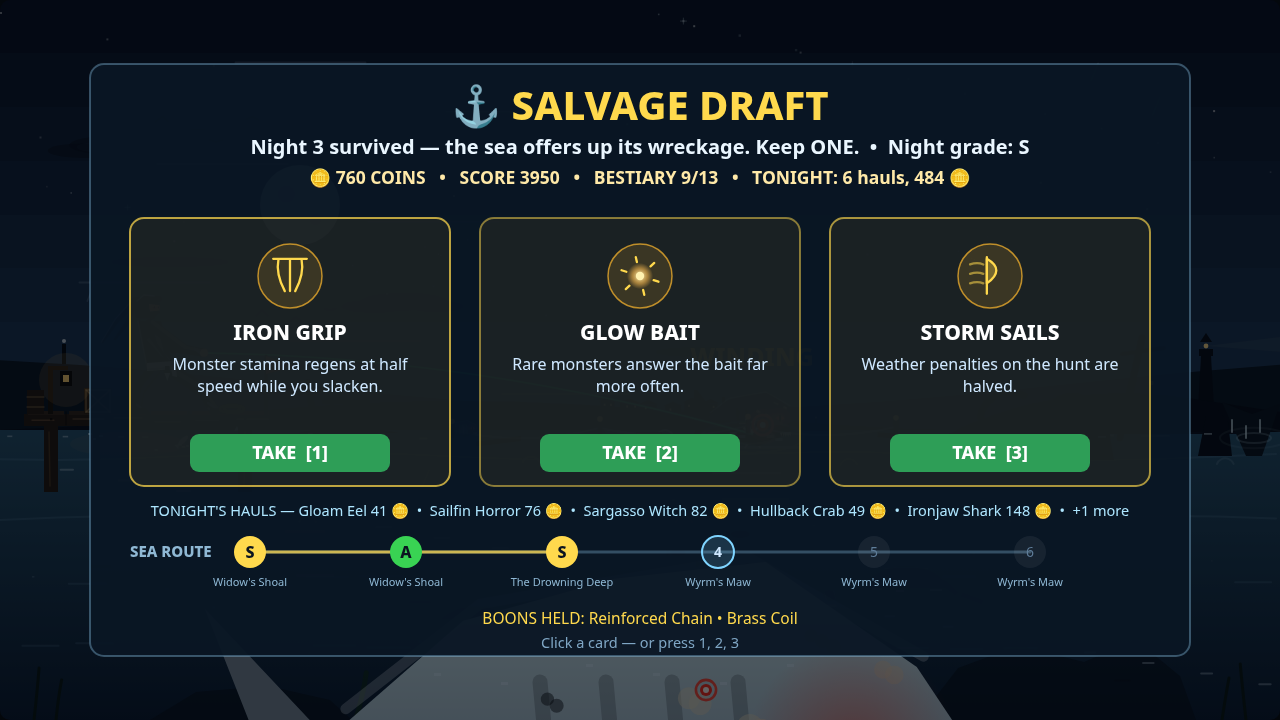
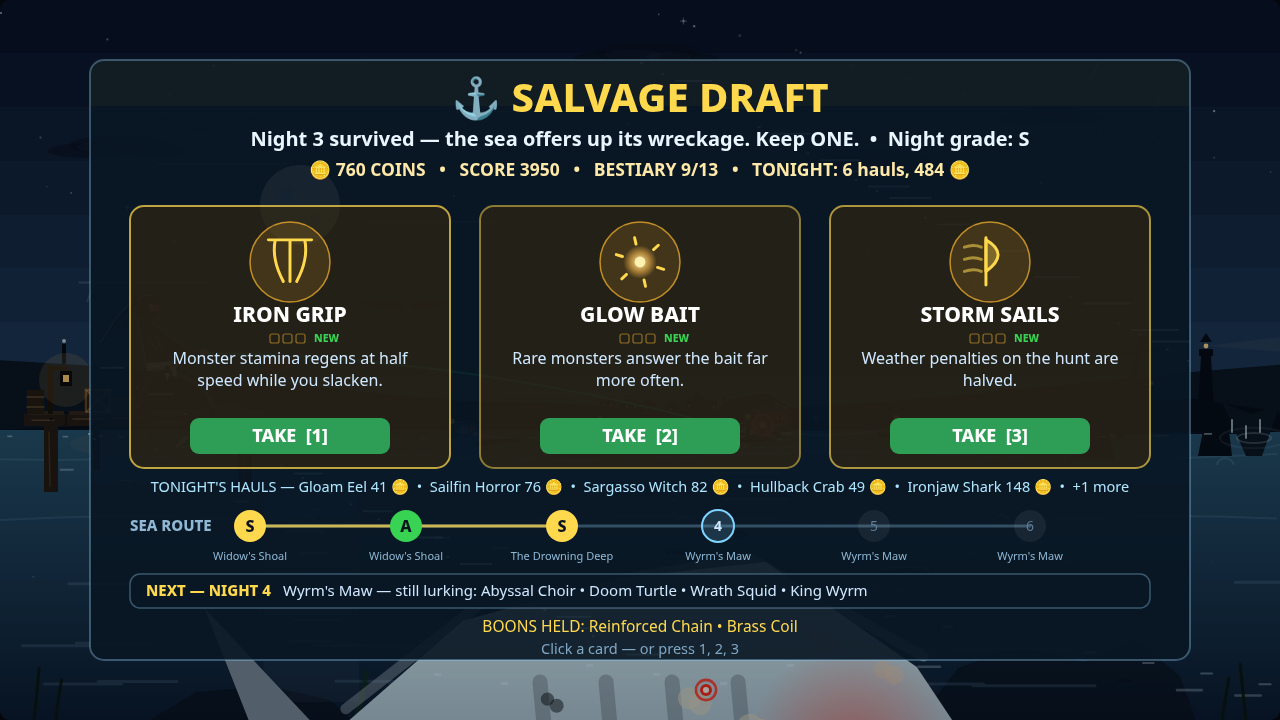
WYRMWAKE: full-sheet richness — draft, victory, briefing, cover

diff --git a/game/src/draft.js b/game/src/draft.js
@@ -6,16 +6,17 @@ import { journalCount } from './state.js';
 import { boonsLabel } from './salvage.js';
 import { text, panel, rr, GRADE_COLORS } from './ui.js';
 import { drawBoonGlyph } from './glyphs.js';
+import { panelTexture, pipRow, nextNightText } from './vendor/screens.js';
 
 export function draftLayout() {
-  const cards = [0, 1, 2].map((i) => ({ idx: i, x: 130 + i * 350, y: 218, w: 320, h: 268 }));
+  const cards = [0, 1, 2].map((i) => ({ idx: i, x: 130 + i * 350, y: 206, w: 320, h: 262 }));
   return { cards };
 }
 
 // The route as a sailed path: a line through six night nodes, grades
 // lettered in, the sea each night was hunted in named underneath.
 function drawDraftRoute(ctx, run) {
-  const y = 552;
+  const y = 526;
   const x0 = 250;
   const stepX = 156;
   ctx.strokeStyle = 'rgba(150,210,245,0.3)';
@@ -59,21 +60,27 @@ function drawDraftRoute(ctx, run) {
 }
 
 export function drawDraft(ctx, run, view) {
-  ctx.fillStyle = 'rgba(2,5,10,0.62)';
+  // a light scrim only: the night sea stays alive behind the panel —
+  // dock, moon and the whale's flank read dimly at its edges
+  ctx.fillStyle = 'rgba(2,5,10,0.34)';
   ctx.fillRect(0, 0, 1280, 720);
-  panel(ctx, 90, 64, 1100, 592, 0.95);
+  panel(ctx, 90, 60, 1100, 600, 0.9);
+  panelTexture(ctx, 90, 60, 1100, 600);
   const recap = run.lastNightHauls || run.tonightHauls || [];
   const recapCoins = recap.reduce((s, hh) => s + hh.coins, 0);
   const grade = run.nightGrades[run.nightGrades.length - 1] || '—';
-  text(ctx, '⚓ SALVAGE DRAFT', 640, 120, 40, '#ffd94d', 'center', 800);
-  text(ctx, `Night ${run.draft.afterNight} survived — the sea offers up its wreckage. Keep ONE.  •  Night grade: ${grade}`, 640, 154, 20, '#eaf6ff', 'center');
-  text(ctx, `🪙 ${run.coins} COINS   •   SCORE ${run.score}   •   BESTIARY ${journalCount(run)}/13   •   TONIGHT: ${recap.length} hauls, ${recapCoins} 🪙`, 640, 184, 17.5, '#ffe9a8', 'center', 700);
+  text(ctx, '⚓ SALVAGE DRAFT', 640, 112, 40, '#ffd94d', 'center', 800);
+  text(ctx, `Night ${run.draft.afterNight} survived — the sea offers up its wreckage. Keep ONE.  •  Night grade: ${grade}`, 640, 146, 20, '#eaf6ff', 'center');
+  text(ctx, `🪙 ${run.coins} COINS   •   SCORE ${run.score}   •   BESTIARY ${journalCount(run)}/13   •   TONIGHT: ${recap.length} hauls, ${recapCoins} 🪙`, 640, 176, 17.5, '#ffe9a8', 'center', 700);
 
   const { cards } = draftLayout();
   run.draft.choices.forEach((id, i) => {
     const c = cards[i];
     const b = boonById(id);
     const pulse = 0.75 + 0.25 * Math.sin(view.t * 2.4 + i * 1.3);
+    ctx.fillStyle = 'rgba(30,20,10,0.5)';
+    rr(ctx, c.x, c.y, c.w, c.h, 14);
+    ctx.fill();
     ctx.fillStyle = 'rgba(255,185,46,0.07)';
     rr(ctx, c.x, c.y, c.w, c.h, 14);
     ctx.fill();
@@ -83,12 +90,12 @@ export function drawDraft(ctx, run, view) {
     // the boon's own little scene, drawn inside the brass seal
     ctx.fillStyle = 'rgba(255,185,46,0.14)';
     ctx.beginPath();
-    ctx.arc(c.x + c.w / 2, c.y + 58, 32, 0, 6.29);
+    ctx.arc(c.x + c.w / 2, c.y + 56, 40, 0, 6.29);
     ctx.fill();
     ctx.strokeStyle = 'rgba(255,185,46,0.7)';
     ctx.lineWidth = 1.5;
     ctx.stroke();
-    drawBoonGlyph(ctx, id, c.x + c.w / 2, c.y + 58, 21);
+    drawBoonGlyph(ctx, id, c.x + c.w / 2, c.y + 56, 27);
     const owned = run.boons.filter((bb) => bb === id).length;
     if (owned > 0) {
       ctx.fillStyle = 'rgba(255,185,46,0.85)';
@@ -96,7 +103,8 @@ export function drawDraft(ctx, run, view) {
       ctx.fill();
       text(ctx, `OWNED ×${owned}`, c.x + c.w - 52, c.y + 27, 11, '#0b1420', 'center', 800);
     }
-    text(ctx, b.name.toUpperCase(), c.x + c.w / 2, c.y + 122, 21, '#ffffff', 'center', 800);
+    text(ctx, b.name.toUpperCase(), c.x + c.w / 2, c.y + 116, 21, '#ffffff', 'center', 800);
+    pipRow(ctx, c.x + c.w / 2, c.y + 128, owned);
     // description, wrapped by hand into centred lines
     const words = b.desc.split(' ');
     const lines = [''];
@@ -104,20 +112,31 @@ export function drawDraft(ctx, run, view) {
       if ((lines[lines.length - 1] + ' ' + w).trim().length > 34) lines.push(w);
       else lines[lines.length - 1] = (lines[lines.length - 1] + ' ' + w).trim();
     }
-    lines.slice(0, 3).forEach((ln, li) => text(ctx, ln, c.x + c.w / 2, c.y + 152 + li * 22, 16, '#cfe8ff', 'center', 400));
+    lines.slice(0, 3).forEach((ln, li) => text(ctx, ln, c.x + c.w / 2, c.y + 158 + li * 22, 16, '#cfe8ff', 'center', 400));
     ctx.fillStyle = '#2e9e57';
-    rr(ctx, c.x + 60, c.y + c.h - 52, c.w - 120, 38, 9);
+    rr(ctx, c.x + 60, c.y + c.h - 50, c.w - 120, 36, 9);
     ctx.fill();
-    text(ctx, `TAKE  [${i + 1}]`, c.x + c.w / 2, c.y + c.h - 27, 18, '#ffffff', 'center', 800);
+    text(ctx, `TAKE  [${i + 1}]`, c.x + c.w / 2, c.y + c.h - 26, 18, '#ffffff', 'center', 800);
   });
 
   // tonight's recap: everything the ended night paid out, by name and price
   const shown = recap.slice(0, 5).map((hh) => `${MONSTERS[hh.mi].name} ${hh.coins} 🪙`).join('  •  ');
   const extra = recap.length > 5 ? `  •  +${recap.length - 5} more` : '';
-  text(ctx, recap.length ? `TONIGHT'S HAULS — ${shown}${extra}` : "TONIGHT'S HAULS — none; the sea kept its secrets", 640, 516, 14.5, '#aee6ff', 'center', 400);
+  text(ctx, recap.length ? `TONIGHT'S HAULS — ${shown}${extra}` : "TONIGHT'S HAULS — none; the sea kept its secrets", 640, 492, 14.5, '#aee6ff', 'center', 400);
 
   drawDraftRoute(ctx, run);
+  // the night to come: its sea, and what still lurks in it
+  const nn = nextNightText(run);
+  ctx.fillStyle = 'rgba(9,22,36,0.85)';
+  rr(ctx, 130, 574, 1020, 34, 10);
+  ctx.fill();
+  ctx.strokeStyle = 'rgba(150,210,245,0.35)';
+  ctx.lineWidth = 1.5;
+  ctx.stroke();
+  text(ctx, nn.label, 146, 596, 15, '#ffd94d', 'left', 800);
+  const lw = ctx.measureText(nn.label).width;
+  text(ctx, nn.line, 158 + lw, 596, 15, '#cfe8ff', 'left', 400);
   const held = run.boons.length ? boonsLabel(run) : 'nothing yet';
-  text(ctx, `BOONS HELD: ${held}`, 640, 624, 15.5, '#ffd94d', 'center', 400);
-  text(ctx, 'Click a card — or press 1, 2, 3', 640, 648, 14.5, '#7fa6c4', 'center', 400);
+  text(ctx, `BOONS HELD: ${held}`, 640, 632, 15.5, '#ffd94d', 'center', 400);
+  text(ctx, 'Click a card — or press 1, 2, 3', 640, 654, 14.5, '#7fa6c4', 'center', 400);
 }

diff --git a/game/src/end.js b/game/src/end.js
@@ -1,70 +1,71 @@
 // end.js — one job: the end screen. The season's verdict with its GRADE
-// medal, the sea route, every stat, all thirteen counts, and the FEATS.
+// medal, the sea route, every stat as a tile, all thirteen counts as
+// chips, and the FEATS as a checklist.
 import { MONSTERS, FEATS, DIFFICULTIES } from './data.js';
 import { journalCount, nextGoal, gradeForScore } from './state.js';
 import { text, panel, drawRouteStrip, GRADE_COLORS } from './ui.js';
+import { panelTexture, statTile, monsterChip, featRow } from './vendor/screens.js';
 
 export function drawEnd(ctx, run, best) {
-  ctx.fillStyle = 'rgba(2,5,10,0.55)';
+  ctx.fillStyle = 'rgba(2,5,10,0.36)';
   ctx.fillRect(0, 0, 1280, 720);
-  panel(ctx, 120, 26, 1040, 668, 0.94);
+  panel(ctx, 120, 14, 1040, 690, 0.9);
+  panelTexture(ctx, 120, 14, 1040, 690);
   const won = run.result === 'victory';
   const grade = gradeForScore(run.score);
-  text(ctx, won ? '🏆 VICTORY!' : '🌅 THE SEASON ENDS', 640, 88, 44, '#ffd94d', 'center', 800);
-  text(ctx, won ? 'Bestiary complete — all 13 monsters hauled!' : `The bestiary stands at ${journalCount(run)}/13 — the Wyrm still waits.`, 640, 122, 21, '#eaf6ff', 'center');
-  // the grade medal, top right
+  text(ctx, won ? '🏆 VICTORY!' : '🌅 THE SEASON ENDS', 640, 70, 44, '#ffd94d', 'center', 800);
+  text(ctx, won ? 'Bestiary complete — all 13 monsters hauled!' : `The bestiary stands at ${journalCount(run)}/13 — the Wyrm still waits.`, 640, 102, 21, '#eaf6ff', 'center');
+  // the grade medal, top right — a coin with its glow rings
+  ctx.fillStyle = 'rgba(255,217,77,0.13)';
+  ctx.beginPath();
+  ctx.arc(1002, 88, 59, 0, 6.29);
+  ctx.fill();
+  ctx.strokeStyle = 'rgba(255,217,77,0.45)';
+  ctx.lineWidth = 2;
+  ctx.beginPath();
+  ctx.arc(1002, 88, 55, 0, 6.29);
+  ctx.stroke();
   ctx.fillStyle = GRADE_COLORS[grade];
   ctx.beginPath();
-  ctx.arc(986, 112, 36, 0, 6.29);
+  ctx.arc(1002, 88, 50, 0, 6.29);
   ctx.fill();
   ctx.strokeStyle = 'rgba(255,255,255,0.5)';
-  ctx.lineWidth = 2;
   ctx.stroke();
-  text(ctx, grade, 986, 126, 38, '#0b1420', 'center', 800);
-  text(ctx, 'SEASON GRADE', 986, 166, 12, '#8fb8d4', 'center', 800);
+  text(ctx, grade, 1002, 105, 46, '#0b1420', 'center', 800);
+  text(ctx, 'SEASON GRADE', 1002, 158, 12, '#8fb8d4', 'center', 800);
 
-  const stats = [
-    ['King Wyrm', run.feats.wyrm ? 'Hauled — Wyrm Slayer' : 'Still waiting', 'Score', `${run.score}`],
-    ['Longest combo', `×${run.bestCombo}`, 'Peak tension', `${Math.round(run.peakTension)}%`],
-    ['Total throws', `${run.throws}`, 'Monsters hauled', `${run.hauled}`],
-    ['Coins earned', `${run.coinsEarned} 🪙`, 'Difficulty', `${DIFFICULTIES[run.difficulty].name} ×${DIFFICULTIES[run.difficulty].mult.toFixed(1)}`],
+  const diff = DIFFICULTIES[run.difficulty];
+  const tiles = [
+    ['Score', `${run.score}`, 25], ['Coins earned', `${run.coinsEarned} 🪙`, 25],
+    ['Monsters hauled', `${run.hauled}`, 25], ['Total throws', `${run.throws}`, 25],
+    ['Longest combo', `×${run.bestCombo}`, 25], ['Peak tension', `${Math.round(run.peakTension)}%`, 25],
+    ['Difficulty', `${diff.name} ×${diff.mult.toFixed(1)}`, 22],
+    ['King Wyrm', run.feats.wyrm ? 'Hauled — Wyrm Slayer' : 'Still waiting', 16],
   ];
-  stats.forEach(([k1, v1, k2, v2], i) => {
-    const y = 186 + i * 30;
-    text(ctx, k1, 190, y, 20, '#aee6ff');
-    text(ctx, v1, 428, y, 20, '#ffffff');
-    text(ctx, k2, 706, y, 20, '#aee6ff');
-    text(ctx, v2, 898, y, 20, '#ffffff');
+  tiles.forEach(([label, value, vpix], i) => {
+    statTile(ctx, 150 + (i % 4) * 250, 168 + Math.floor(i / 4) * 66, 230, 58, label, value, vpix);
   });
 
-  drawRouteStrip(ctx, run, 190, 306);
+  drawRouteStrip(ctx, run, 436, 316);
 
-  text(ctx, 'HAULS BY MONSTER', 190, 352, 16, '#8fb8d4', 'left', 800);
+  text(ctx, 'HAULS BY MONSTER', 150, 360, 16, '#8fb8d4', 'left', 800);
   MONSTERS.forEach((m, i) => {
-    const col = Math.floor(i / 5);
-    const row = i % 5;
-    const caught = run.bestiary[i].count > 0;
-    text(ctx, `${m.name} ×${run.bestiary[i].count}`, 190 + col * 330, 378 + row * 20, 15.5, caught ? '#cfe8ff' : '#5f7d99', 'left', 400);
+    monsterChip(ctx, m, run.bestiary[i].count, 150 + Math.floor(i / 5) * 332, 372 + (i % 5) * 28, 316);
   });
 
-  text(ctx, 'FEATS', 190, 492, 16, '#8fb8d4', 'left', 800);
+  panel(ctx, 150, 520, 980, 104, 0.5);
+  text(ctx, 'FEATS', 170, 542, 15, '#8fb8d4', 'left', 800);
   FEATS.forEach((f, i) => {
     const col = i < 4 ? 0 : 1;
-    const row = i % 4;
-    const x = 190 + col * 500;
-    const y = 518 + row * 23;
-    const earned = !!run.feats[f.id];
-    text(ctx, earned ? `★ ${f.name}` : `☆ ${f.name}`, x, y, 16.5, earned ? '#ffd94d' : '#5f7d99', 'left', 700);
-    const w = ctx.measureText(earned ? `★ ${f.name}` : `☆ ${f.name}`).width;
-    text(ctx, `— ${f.desc}`, x + w + 10, y, 13, earned ? '#8fb8d4' : '#46617c', 'left', 400);
+    featRow(ctx, f, !!run.feats[f.id], 170 + col * 482, 562 + (i % 4) * 18, 458);
   });
 
   const goal = won
     ? `Next goal: beat your score of ${run.score}`
     : nextGoal({ result: 'x', species: journalCount(run) });
-  text(ctx, goal, 640, 626, 20, '#ffd94d', 'center');
+  text(ctx, goal, 640, 646, 20, '#ffd94d', 'center');
   if (best && best.result) {
-    text(ctx, `BEST: ${best.result} • grade ${best.grade || '—'} • score ${best.score || 0} • combo ×${best.combo} • ${best.coins} 🪙`, 640, 654, 17.5, '#ffe9a8', 'center', 400);
+    text(ctx, `BEST: ${best.result} • grade ${best.grade || '—'} • score ${best.score || 0} • combo ×${best.combo} • ${best.coins} 🪙`, 640, 670, 17.5, '#ffe9a8', 'center', 400);
   }
-  text(ctx, 'Press R to sail again', 640, 682, 22, '#7fd4ff', 'center', 800);
+  text(ctx, 'Press R to sail again', 640, 694, 22, '#7fd4ff', 'center', 800);
 }

diff --git a/game/src/briefing.js b/game/src/briefing.js
@@ -7,10 +7,11 @@ import { text, panel, rr } from './ui.js';
 import { drawWorld } from './render.js';
 import { drawFishShape } from './vendor/shapes.js';
 import { drawWyrmGlyph } from './vendor/wyrm.js';
+import { screenTexture } from './vendor/screens.js';
 
 export function briefingLayout() {
   const diffs = DIFFICULTIES.map((d, i) => ({ idx: i, x: 40 + i * 410, y: 474, w: 380, h: 56 }));
-  return { diffs, sail: { x: 624, y: 560, w: 272, h: 64 } };
+  return { diffs, sail: { x: 526, y: 560, w: 258, h: 64 } };
 }
 
 function pill(ctx, x, label, line, color) {
@@ -33,12 +34,15 @@ function stepCard(ctx, x, n, title, lines, icon) {
 }
 
 function drawDemoWindow(ctx, demo, view) {
-  const { x, y, w, h } = { x: 912, y: 548, w: 328, h: 140 };
+  const { x, y, w, h } = { x: 800, y: 548, w: 440, h: 140 };
   ctx.save();
   rr(ctx, x, y, w, h, 10);
   ctx.clip();
-  ctx.translate(x, y - 16);
-  ctx.scale(w / 1280, w / 1280);
+  // frame the action: the slice from the moon's sky down through the
+  // waterline, where the hunt in the window is actually happening
+  const s = w / 1280;
+  ctx.translate(x, y - 100 * s);
+  ctx.scale(s, s);
   drawWorld(ctx, demo, view, true); // lite: at this size the fine scenery is mush
   ctx.restore();
   ctx.strokeStyle = 'rgba(150,210,245,0.5)';
@@ -54,10 +58,11 @@ function drawDemoWindow(ctx, demo, view) {
 export function drawBriefing(ctx, sel, best, last, demo, view) {
   // scrim over the living sea so every word lands
   const g = ctx.createLinearGradient(0, 0, 0, 720);
-  g.addColorStop(0, 'rgba(3,6,14,0.66)');
-  g.addColorStop(1, 'rgba(3,6,14,0.82)');
+  g.addColorStop(0, 'rgba(3,6,14,0.76)');
+  g.addColorStop(1, 'rgba(3,6,14,0.89)');
   ctx.fillStyle = g;
   ctx.fillRect(0, 0, 1280, 720);
+  screenTexture(ctx);
 
   text(ctx, 'WYRMWAKE', 640, 94, 76, '#ffd94d', 'center', 800);
   text(ctx, 'Harpoon the deep. Fill the bestiary. Kill the King Wyrm.', 640, 130, 24, '#eaf6ff', 'center');
@@ -139,7 +144,7 @@ export function drawBriefing(ctx, sel, best, last, demo, view) {
   }
 
   // BEST panel + the last hunt, bottom left
-  panel(ctx, 40, 548, 560, 140, 0.8);
+  panel(ctx, 40, 548, 470, 140, 0.8);
   text(ctx, 'BEST HUNT', 60, 578, 17, '#8fb8d4', 'left', 800);
   if (best && best.result) {
     text(ctx, `${best.result} — GRADE ${best.grade || '—'} • SCORE ${best.score || 0}`, 60, 606, 18.5, '#ffe9a8');
@@ -148,7 +153,7 @@ export function drawBriefing(ctx, sel, best, last, demo, view) {
     text(ctx, 'No hunts yet — the bestiary is unwritten.', 60, 606, 17, '#cfe8ff', 'left', 400);
   }
   if (last && last.result) {
-    text(ctx, `LAST HUNT: ${last.result} • ${last.species}/13 • score ${last.score} • grade ${last.grade}`, 60, 664, 15.5, '#8fb8d4', 'left', 400);
+    text(ctx, `LAST HUNT: ${last.result} • ${last.species}/13 • score ${last.score} • grade ${last.grade}`, 60, 664, 14.5, '#8fb8d4', 'left', 400);
   } else {
     text(ctx, 'LAST HUNT: —', 60, 664, 15.5, '#5f7d99', 'left', 400);
   }

diff --git a/game/src/shots.js b/game/src/shots.js
@@ -48,10 +48,19 @@ export function stageShot(name, view, burst) {
     return { r, mode: 'game' };
   }
   if (name === 'briefing') {
+    // the demo window stages the hunt itself: the King Wyrm on the
+    // chain in his own Maw under the Blood Moon — moon, glint, chain
+    // arc and all — while the same sea glows dimly behind the scrim
     const demoShot = createRun(7);
-    demoShot.sea = 1; demoShot.weatherIdx = 1; demoShot.castDist = 58;
-    demoShot.phase = 'wait';
-    demoShot.wait = { t: 2, biteIn: 3, open: false, window: 0, telegraph: true, fakes: [], dip: 0.2 };
+    demoShot.sea = 2; demoShot.weatherIdx = 3; demoShot.castDist = 73;
+    demoShot.phase = 'fight';
+    demoShot.fight = {
+      mi: 12, dist: 73, tension: 63, t: 6.4, snapT: 0, surgePhase: 2.0, stamina: 46,
+      wpNext: 5, wpT: 0.9, wpFake: false, wpDx: 0.3, wpDy: 0.9,
+      evIn: 8, evCount: 1, event: null,
+      surgeT: 0, vitalAcc: 0, vitalFlash: 0, spikeT: 0, inkT: 0,
+      dashT: 0, dashCd: 0, counterT: 0, vanishFlash: 0,
+    };
     // the BEST on the briefing is the very season the victory screen
     // shows — same score, grade, combo and coins
     const shotBest = { result: 'BESTIARY COMPLETE', species: 13, combo: 11, coins: 4210, score: 9650, grade: 'S' };
